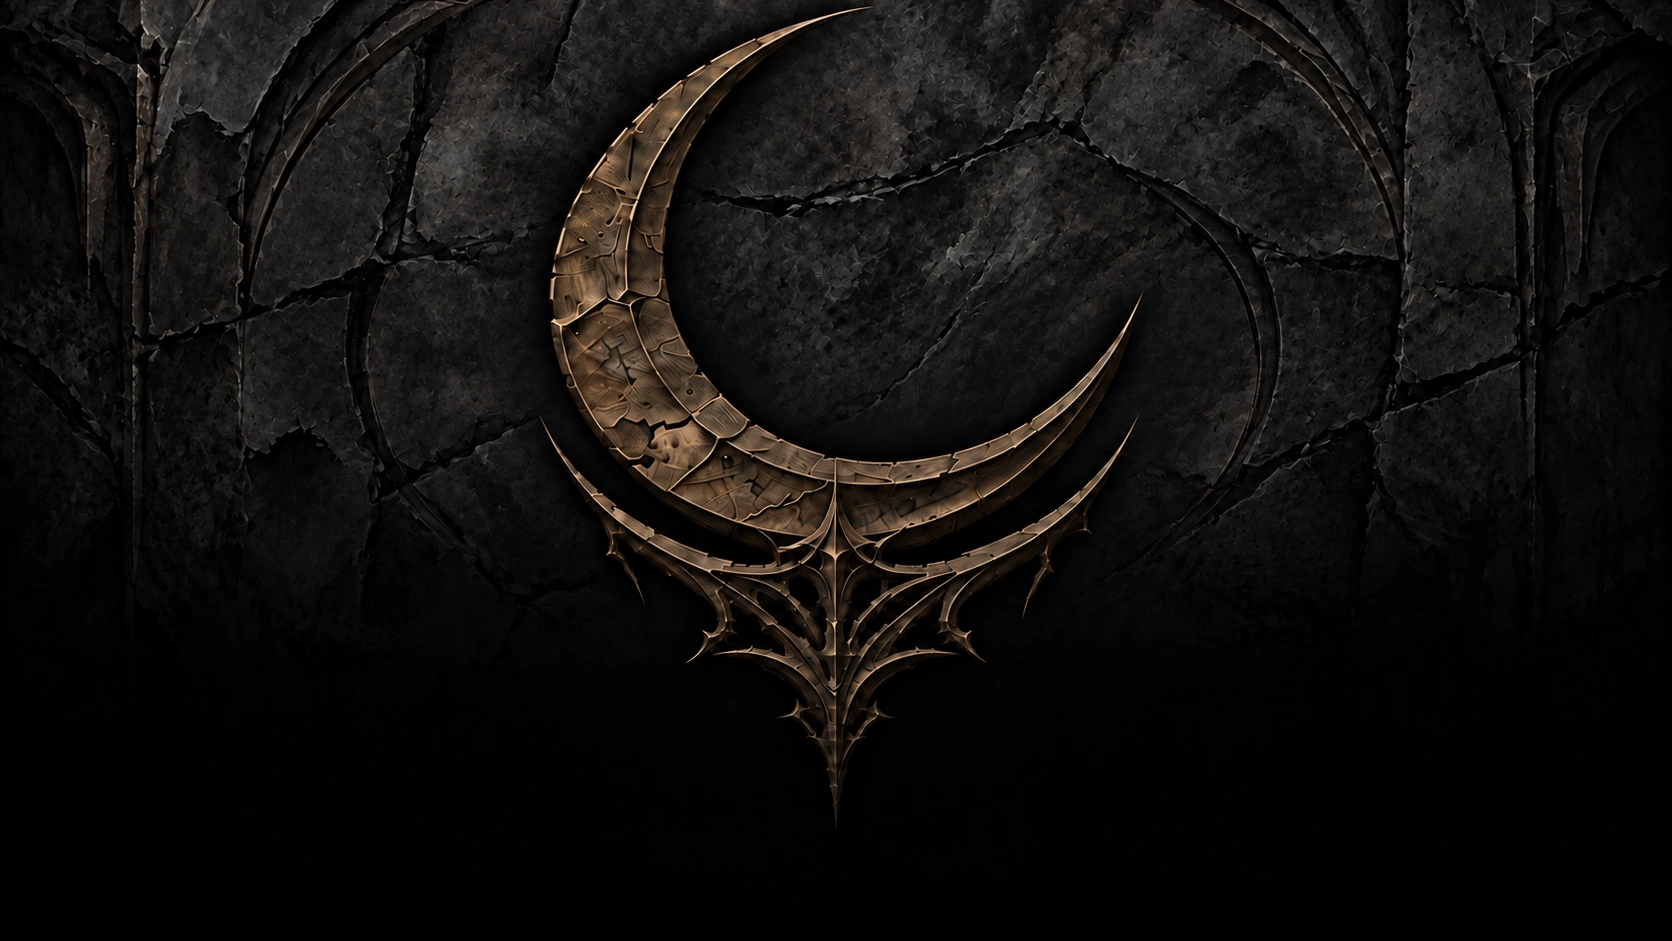
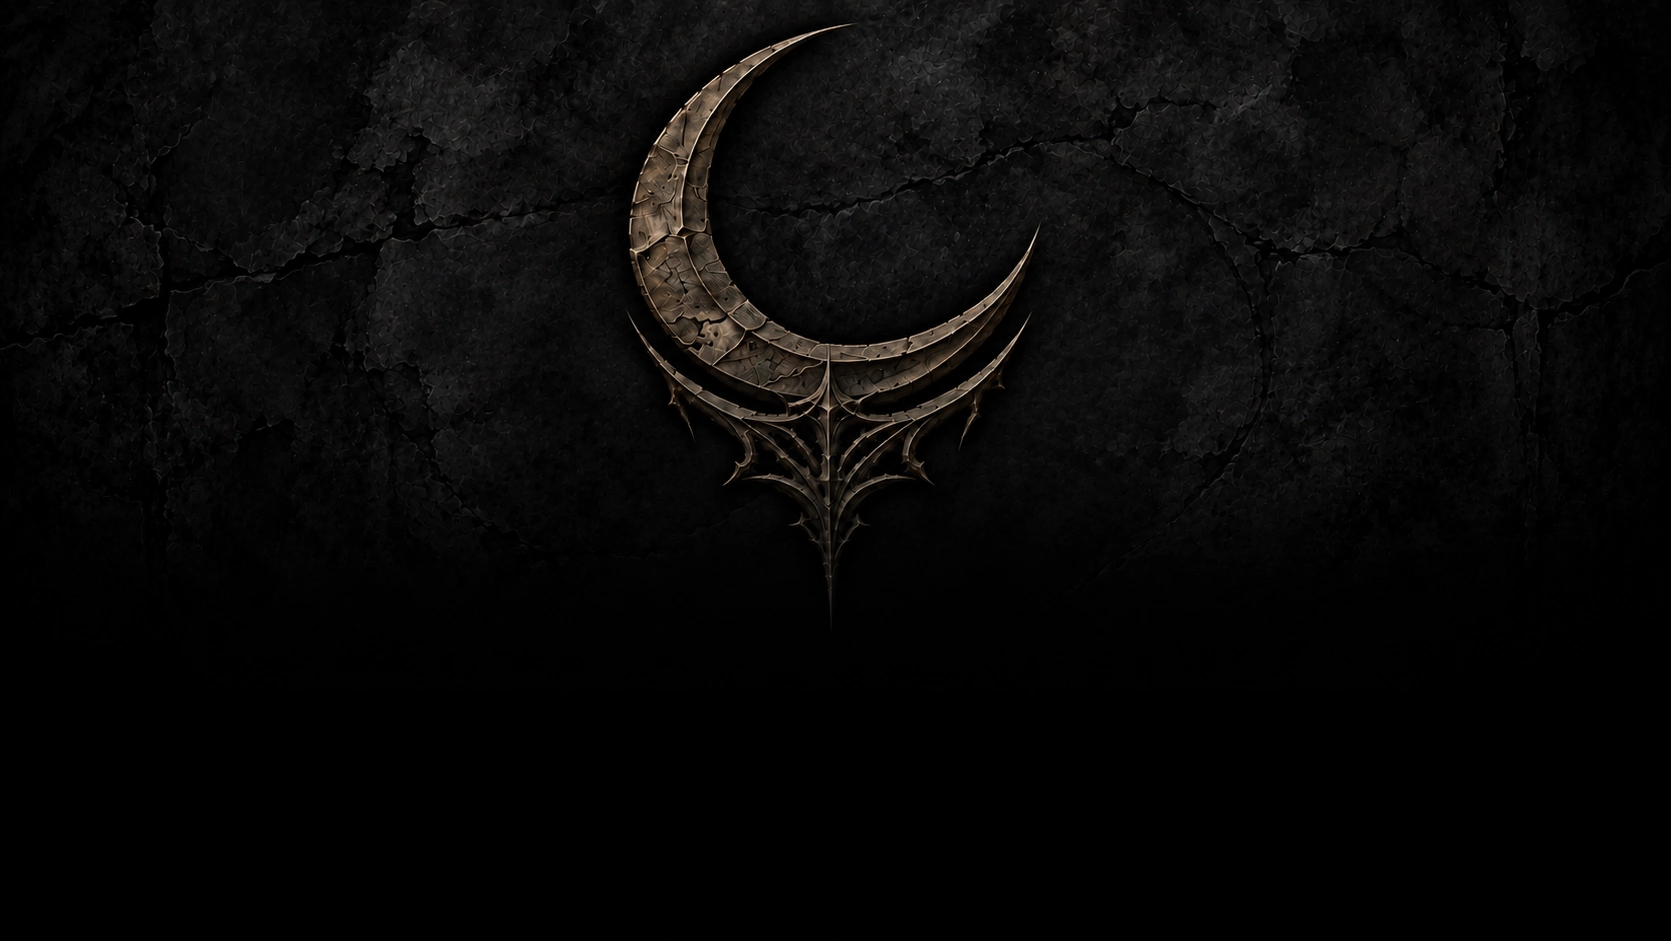
Add files via upload

diff --git a/index.html b/index.html
@@ -6,8 +6,9 @@
 <meta name="description" content="Арквейн — иллюстрированная книга мира: земли, народы, фракции, герои и предания.">
 <title>ARCWANE — Artbook 2026</title>
 <link rel="icon" href="world-mark-v5.png" type="image/png"><link rel="stylesheet" href="style.css?v=arcwane-limbrein-title-20261003">
-<script src="book-data.js?v=arcwane-limbrein-title-v15-20261004" defer></script><script src="page-fold.js?v=arcwane-v71" defer></script><script src="reader.js?v=arcwane-v71" defer></script>
-<style>.book:not(.closed) .chapter-page[data-index="37"]:before{background:linear-gradient(180deg,transparent 30%,#00000033 42%,#000000aa 58%,#000000ee 72%,#000 90%)!important}@media(min-width:701px){.book:not(.closed) .chapter-page[data-index="37"] .page-copy{top:65%!important}}</style>
+<script src="book-data.js?v=arcwane-limbrein-title-v17-20261004" defer></script><script src="page-fold.js?v=arcwane-v71" defer></script><script src="reader.js?v=arcwane-v71" defer></script>
+<style>.book:not(.closed) .chapter-page[data-index="37"]:before{background:linear-gradient(180deg,transparent 58%,#00000066 64%,#000000ee 73%,#000 90%)!important}@media(min-width:701px){.book:not(.closed) .chapter-page[data-index="37"] .page-copy{top:65%!important}.book:not(.closed) .chapter-page[data-index="37"] .page-art{height:90%!important;object-position:center top!important}}</style>
+<style>@media(max-width:700px){.book:not(.closed) .leaf.chapter-page[data-index="5"] .page-copy,.book:not(.closed) .leaf.chapter-page[data-index="37"] .page-copy{bottom:85px!important}}</style>
 </head>
 <body>
 <div class="app">

diff --git a/book-data.js b/book-data.js
@@ -624,7 +624,7 @@ window.ARKVEIN_BOOK = {
       "id": "limbrein-title",
       "title": "ЛИМБРЕЙН",
       "section": "",
-      "image": "limbrein-title-final.webp?v=arcwane-limbrein-title-v15-20261004",
+      "image": "limbrein-title-final.webp?v=arcwane-limbrein-title-v17-20261004",
       "alt": "ЛИМБРЕЙН",
       "caption": "Раскрытый полумесяц над готическим остриём — знак Лимбрейна.",
       "type": "chapter",
